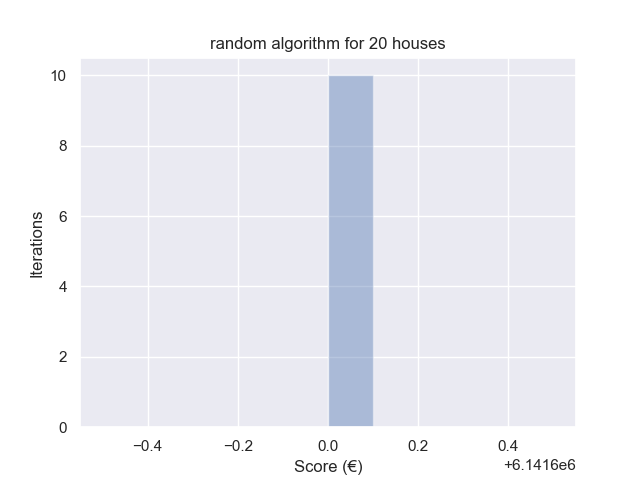
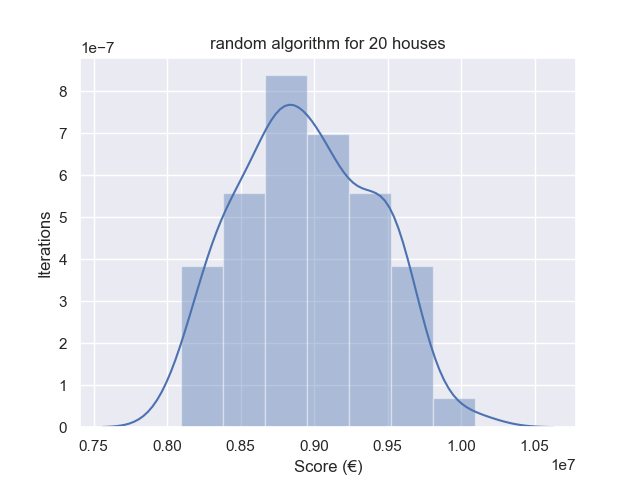
update

diff --git a/code/helpers/score.py b/code/helpers/score.py
@@ -62,7 +62,8 @@ def distance_check(neighbourhood, version="efficient"):
     for ID, House in houses.items():
         
         # remove the house from the neighbourhood and get the distance from the house
-        rest_of_neighbourhood = list(poly_houses).remove(House)
+        rest_of_neighbourhood = list(poly_houses)
+        rest_of_neighbourhood.remove(House)
         shortest_distance[ID] = float(House.distance(MultiPolygon(rest_of_neighbourhood)))
     
     # loop through the neighbourhood and update shortest distance
